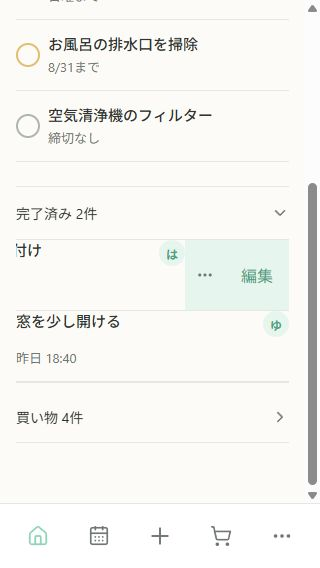
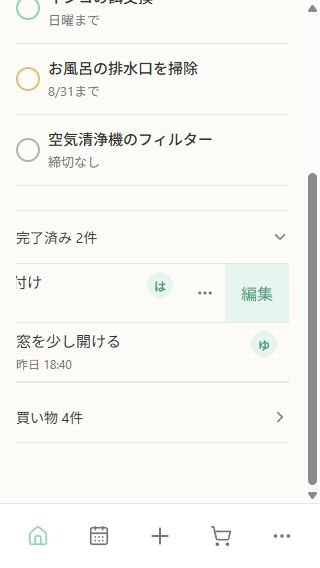
Tune completed row density and action colors

diff --git a/src/pages/HomePage.css b/src/pages/HomePage.css
@@ -250,6 +250,23 @@
   transform: translateX(-64px);
 }
 
+.home-task-row--completed .home-task-row__content {
+  min-height: 58px;
+  gap: var(--space-3);
+  padding: var(--space-2) 0;
+}
+
+.home-task-row--completed .home-task-row__name {
+  font-size: 0.9375rem;
+  font-weight: 400;
+  line-height: 1.45;
+}
+
+.home-task-row--completed .home-task-row__deadline {
+  font-size: 0.75rem;
+  line-height: 1.4;
+}
+
 .home-task-row--completed .home-task-row__actions {
   grid-template-columns: 64px;
   width: 64px;
@@ -264,6 +281,10 @@
 .home-completed__toggle:hover,
 .home-task-row__more:hover {
   background: var(--color-primary-soft);
+}
+
+.home-task-row--completed .home-task-row__more:hover {
+  background: transparent;
 }
 
 .home-empty-state {
